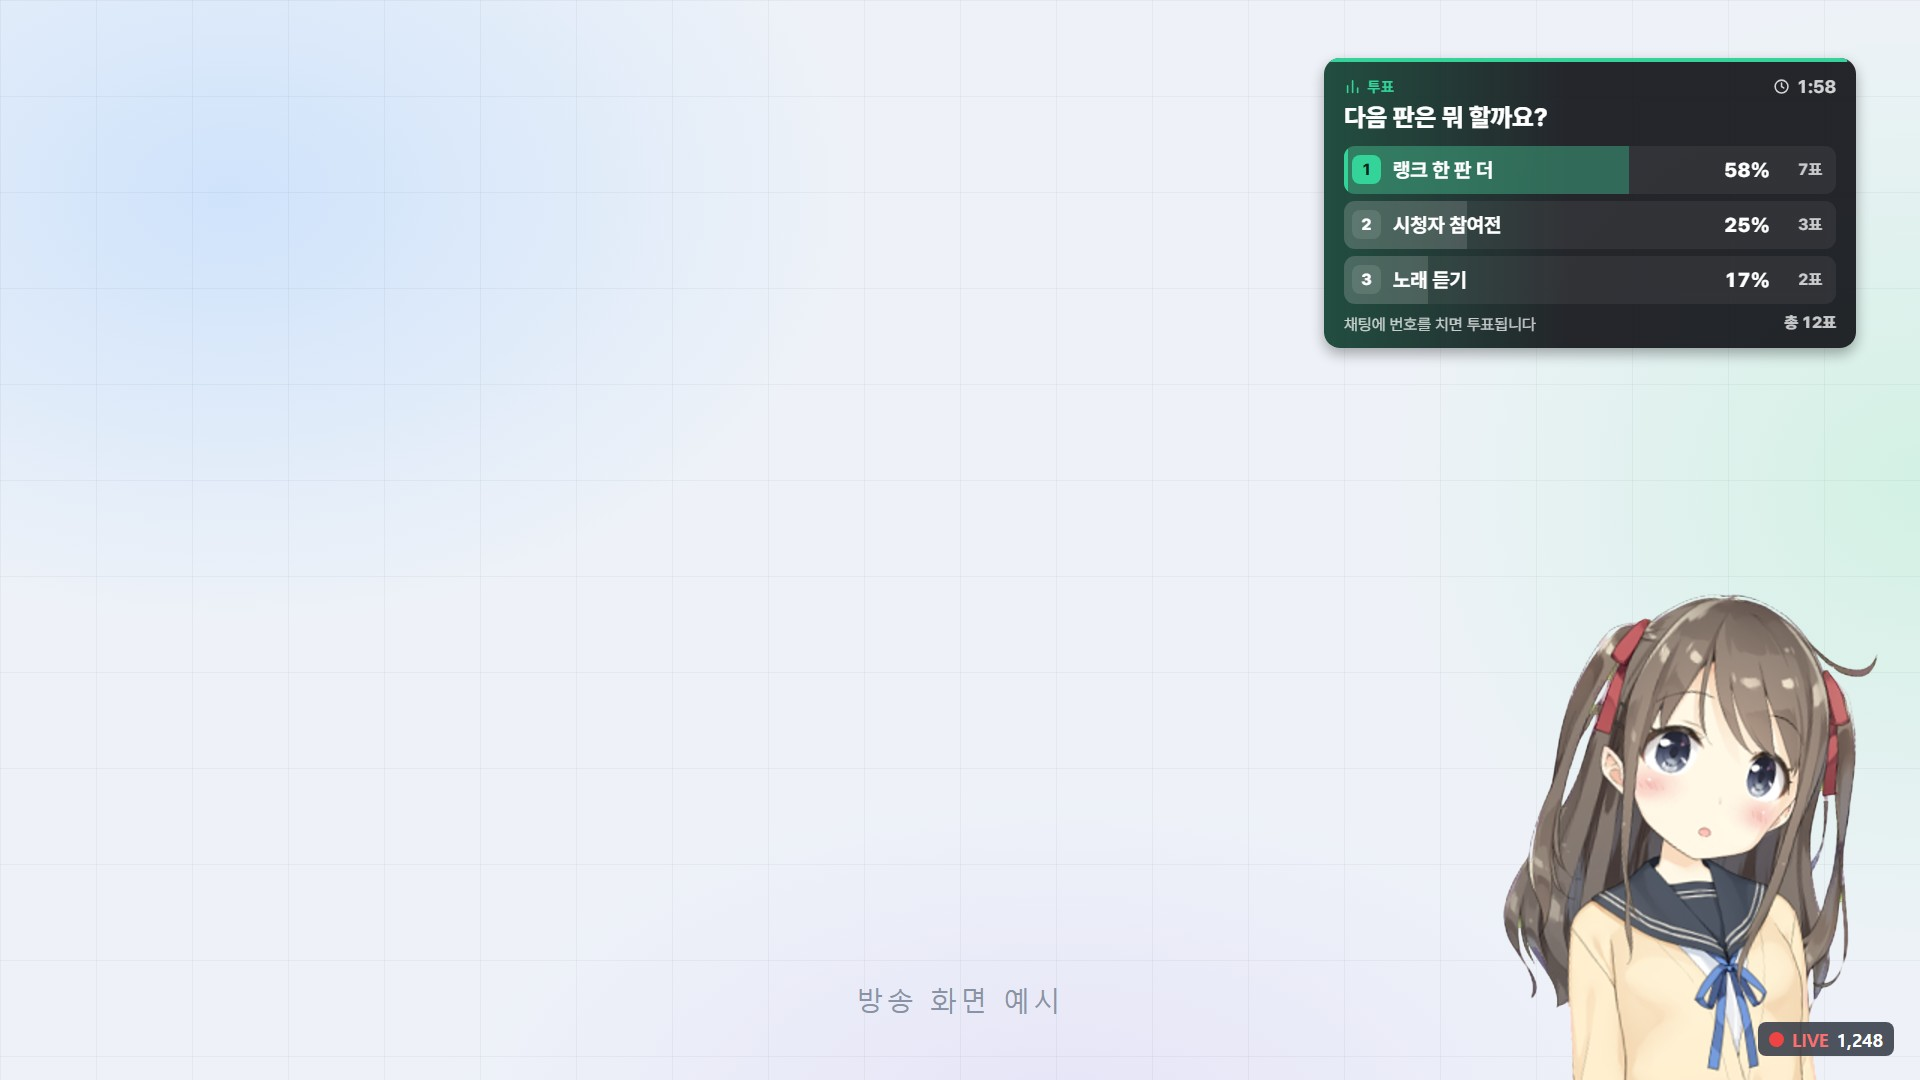
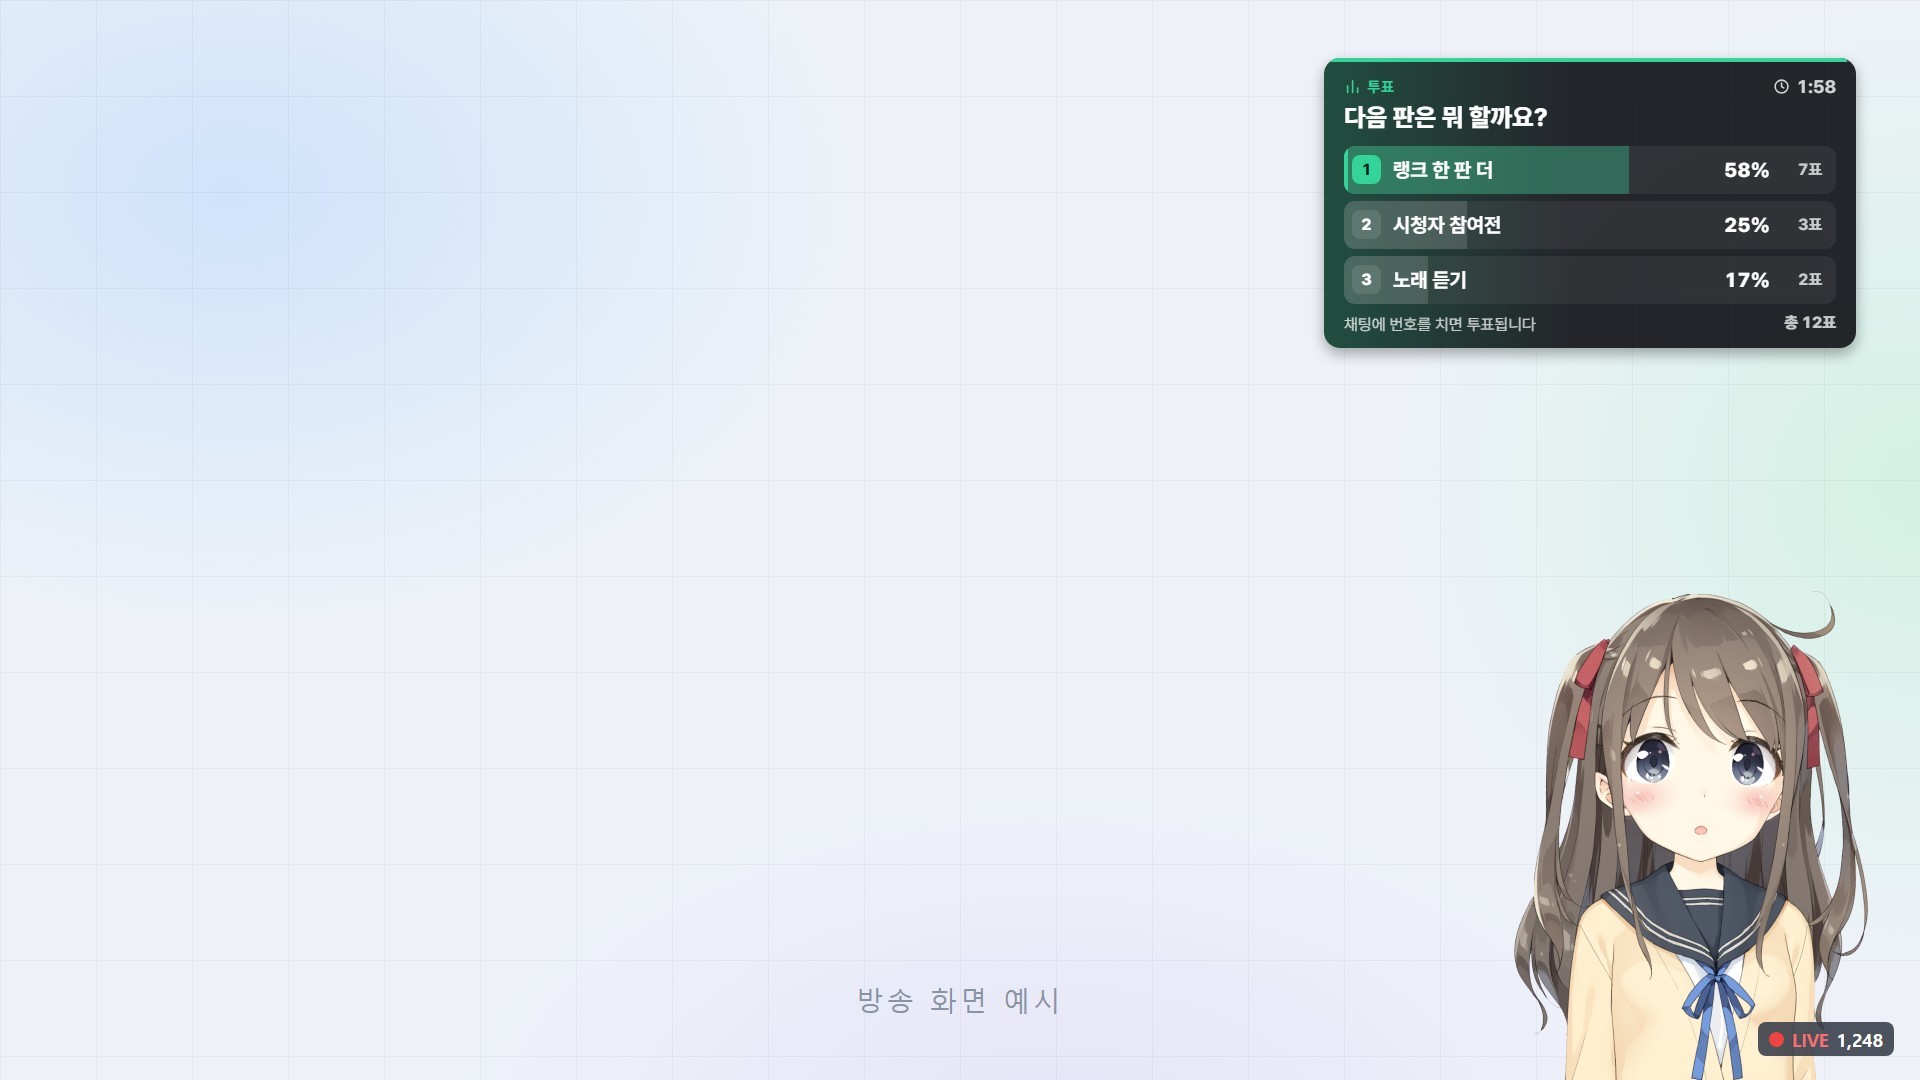
방송 화면 예시의 아바타를 원본 해상도로 — VTube Studio 에서 3배로 확대해 다시 찍음
- 투표·추첨·당첨자 채팅·시간 가이드 그림 4장과 홈 첫 화면 합성(overlay-3d-v12) 교체
- 아바타는 확대 없이 화소 그대로(사용자 허락을 받아 VTube Studio 모델 위치를 잠시 바꿔 찍고 되돌림)
- 그림 주소 ?v=242, 한 시간 전의 v11 은 뺌

Changed region(s): [[0.7812, 0.55, 0.9688, 1.0]]

diff --git a/guide/participation/index.html b/guide/participation/index.html
@@ -172,7 +172,7 @@
         <li>"직접 종료"를 고르면 [종료]를 누를 때까지 받습니다. 시작·결과 채팅은 끌 수 있고 문구는 바꿀 수 있습니다.</li>
       </ul>
 
-      <img src="/img/shots/overlay-vote.jpg?v=241" width="1280" height="720" alt="방송 화면 예시 — 투표 오버레이. 1위 보기만 초록으로 물들고, 보기마다 비율과 표 수, 위쪽 선은 남은 시간" loading="lazy">
+      <img src="/img/shots/overlay-vote.jpg?v=242" width="1280" height="720" alt="방송 화면 예시 — 투표 오버레이. 1위 보기만 초록으로 물들고, 보기마다 비율과 표 수, 위쪽 선은 남은 시간" loading="lazy">
 
       <h2 id="raffle">추첨</h2>
       <p><b>[모집 시작]</b>을 누르면 그때부터 채팅한 사람이 자동으로 참여자에 들어갑니다. 특정 말을 쳐야 들어오게 하려면 키워드를 적으세요(예: 참여).
@@ -186,8 +186,8 @@
         <li><b>구독자 표시 (2.0).</b> 참여자 칸 오른쪽 위의 "구독자 표시"를 켜면 참여자의 구독 여부를 차례로 확인해 구독자 수(보라 배지)와 명단 색(보라)으로 보여 줍니다. 기능 창에서만 보이고 방송 화면에는 표시되지 않습니다. 처음에는 꺼져 있습니다.</li>
       </ul>
 
-      <img src="/img/shots/overlay-raffle.jpg?v=241" width="1280" height="720" alt="방송 화면 예시 — 추첨 오버레이. 참여 15명, 닉네임 명단, 당첨자 두 명이 초록 테두리" loading="lazy">
-      <img src="/img/shots/overlay-spotlight.jpg?v=241" width="1280" height="720" alt="방송 화면 예시 — 당첨자 한 명의 닉네임과 채팅 두 줄이 뜬 모습" loading="lazy">
+      <img src="/img/shots/overlay-raffle.jpg?v=242" width="1280" height="720" alt="방송 화면 예시 — 추첨 오버레이. 참여 15명, 닉네임 명단, 당첨자 두 명이 초록 테두리" loading="lazy">
+      <img src="/img/shots/overlay-spotlight.jpg?v=242" width="1280" height="720" alt="방송 화면 예시 — 당첨자 한 명의 닉네임과 채팅 두 줄이 뜬 모습" loading="lazy">
 
       <h2 id="wheel">돌림판</h2>
       <p>방장이 직접 돌리는 룰렛입니다. 항목과 확률을 적어 저장하고 <b>[돌리기]</b>를 누르면 기능 창의 원판과 방송 화면의 원판이 같이 돌아갑니다.</p>

diff --git a/index.html b/index.html
@@ -533,7 +533,7 @@
     <div class="screens">
       <div class="scr reveal">
         <div class="txt"><b>방송 화면에 이렇게 뜹니다</b><p>OBS 브라우저 소스로 넣는 알림·타이머·카운터·룰렛·채팅·추첨·투표. 시청자는 채팅에 번호만 치면 되고, 결과는 화면과 채팅에 같이 나옵니다. 버튜버라면 TITS로 아바타에 물건도 던집니다.</p></div>
-        <div class="pic"><img src="/img/shots/overlay-3d-v11.webp" width="3180" height="2104" alt="방송 화면 예시(밝은 배경) — 왼쪽 위 후원 알림 카드, 그 아래 투표, 왼쪽 아래 채팅 오버레이 7줄, 가운데 7연차 후원 룰렛과 결과, 오른쪽에 추첨 15명·라면 타이머·데스 카운터, 오른쪽 아래 버튜버 아바타에 TITS로 던진 사과·바나나" loading="lazy"></div>
+        <div class="pic"><img src="/img/shots/overlay-3d-v12.webp" width="3180" height="2104" alt="방송 화면 예시(밝은 배경) — 왼쪽 위 후원 알림 카드, 그 아래 투표, 왼쪽 아래 채팅 오버레이 7줄, 가운데 7연차 후원 룰렛과 결과, 오른쪽에 추첨 15명·라면 타이머·데스 카운터, 오른쪽 아래 버튜버 아바타에 TITS로 던진 사과·바나나" loading="lazy"></div>
       </div>
       <div class="scr rev reveal">
         <div class="txt"><b>기능 창에서 버튼으로</b><p>투표·추첨·돌림판·후원 룰렛, 카운터·타이머·스톱워치, 채팅·알림 오버레이, 신청곡, TTS·TITS를 한 창에서 다룹니다. 명령어를 외울 것이 없고, 각 화면의 URL을 OBS에 한 번 넣으면 끝입니다.</p></div>

diff --git a/guide/time/index.html b/guide/time/index.html
@@ -148,7 +148,7 @@
         </ol>
       </div>
 
-      <img src="/img/shots/overlay-time.jpg?v=241" width="1280" height="720" alt="방송 화면 예시 — 오른쪽에 타이머, 데스 카운터, 스톱워치가 세로로 놓인 모습" loading="lazy">
+      <img src="/img/shots/overlay-time.jpg?v=242" width="1280" height="720" alt="방송 화면 예시 — 오른쪽에 타이머, 데스 카운터, 스톱워치가 세로로 놓인 모습" loading="lazy">
 
       <h2 id="counter">카운터</h2>
       <p>이름을 정해 만들면(예: 데스) 큰 숫자와 <b>[−] [+] [0]</b> 버튼이 생깁니다. 누를 때마다 방송 화면의 숫자가 바로 바뀝니다. 카운터는 여러 개 만들 수 있고 값은 봇을 껐다 켜도 남습니다.</p>
